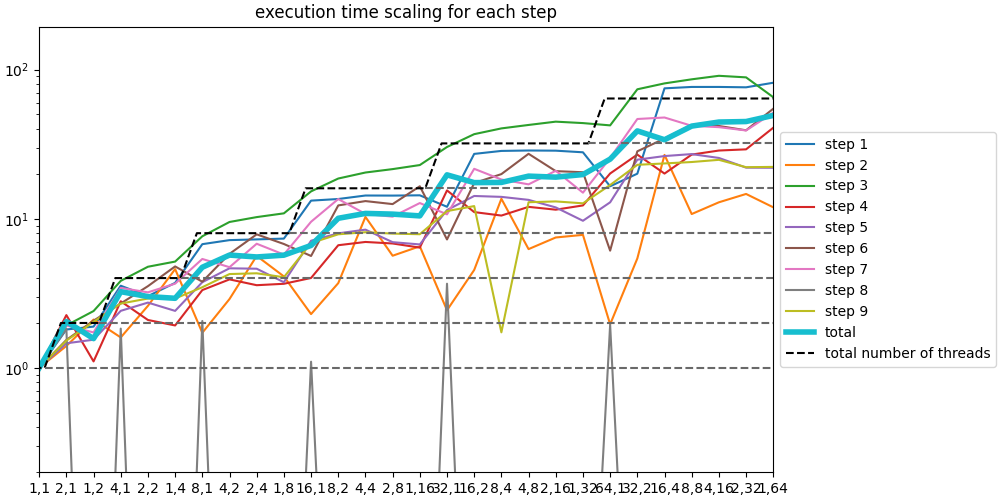
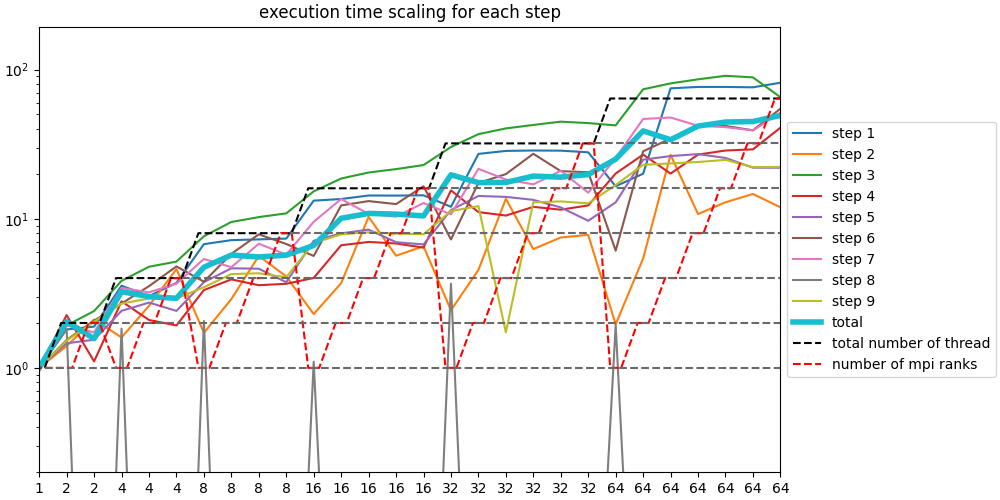
improved mpi testing script

diff --git a/v7/omp_mpi_scalling_test/grapher.py b/v7/omp_mpi_scalling_test/grapher.py
@@ -42,20 +42,26 @@ for filename in filenames:
 
 
 	# limit graph values
-	x_points, y_points = [[]], [[]]
-	for i, n_thread in enumerate(n_threads):
-		n_thread = np.product([int(x) for x in n_thread.split(',')])
+	x_points, y_points = [[], [], []], [[], [], []]
+	for i in range(0, len(n_threads)):
+		n_thread, n_nodes = [int(x) for x in n_threads[i].split(',')]
+		total_n_thread = n_thread*n_nodes
+
 		if i < len(n_threads) - 2:
-			n_thread_1 = np.product([int(x) for x in n_threads[i + 1].split(',')])
-			if n_thread_1 > n_thread:
+			total_n_thread_1 = np.product([int(x) for x in n_threads[i + 1].split(',')])
+			if total_n_thread_1 > total_n_thread:
 				x_points.append([i + 0.2, len(n_threads) - 1])
-				y_points.append([n_thread, n_thread])
+				y_points.append([total_n_thread, total_n_thread])
 
 		x_points[0].append(i - 0.2)
-		y_points[0].append(n_thread)
-
+		y_points[0].append(total_n_thread)
 		x_points[0].append(i + 0.2)
-		y_points[0].append(n_thread)
+		y_points[0].append(total_n_thread)
+
+		x_points[1].append(i - 0.2)
+		y_points[1].append(n_nodes)
+		x_points[1].append(i + 0.2)
+		y_points[1].append(n_nodes)
 
 
 
@@ -65,15 +71,16 @@ for filename in filenames:
 	fig, ax = plt.subplots(1, 1, figsize=(10, 5), constrained_layout=True)
 	ax.set_title("execution time scaling for each step")
 	ax.set_xticks(np.arange(0, len(n_threads)))
-	ax.set_xticklabels(n_threads)
+	ax.set_xticklabels([np.product([int(x) for x in n_thread.split(',')]) for n_thread in n_threads])
 
 	for step in range(proportions.shape[1]):
 		ax.plot(scaling[:, step], label=f'step { step + 1 }')
 
 	ax.plot(scaling[:, -1], linewidth=4, label='total')
 
-	ax.plot(x_points[0], y_points[0], "k--", label='total number of threads')
-	for i in range(1, len(x_points)):
+	ax.plot(x_points[0], y_points[0], "k--", label='total number of thread')
+	ax.plot(x_points[1], y_points[1], "r--", label='number of mpi ranks')
+	for i in range(3, len(x_points)):
 		ax.plot(x_points[i], y_points[i], "--", color="dimgrey")
 	ax.set_yscale('log')
 
